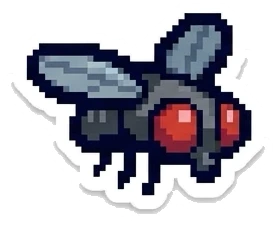
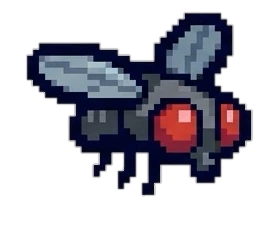
The flies lose their white sticker border
Over the painted scenes, and the new wide pond most of all, the white
border made the flies look pasted on. cut.py now saves the flies the way
it already saves the frog for the scenes: only what is drawn, up to the
dark outline. Same box and size as before, so nothing moves.

diff --git a/design/frog/cut.py b/design/frog/cut.py
@@ -17,7 +17,8 @@ HERE = os.path.dirname(os.path.abspath(__file__))
 IMG = os.path.join(HERE, "..", "..", "img")
 LONGEST = 520  # stickers are saved no larger than this: plenty for a phone screen
 LARGER = {"logo": 820}  # the title is shown wide, so it keeps more pixels
-PLAIN = {"frog": "frog-plain"}  # folders whose stickers are also saved without the white border
+PLAIN = {"frog": "frog-plain", "bugs": "bugs"}  # folders whose stickers are also saved without the white border
+# (the flies fly over the scenes only, so their plain version replaces the sticker in the same folder)
 OUTLINE = (12, 10, 34)  # the navy of the drawn outline
 
 # (sheet, names in reading order, white border in sheet pixels, folder under img/)
